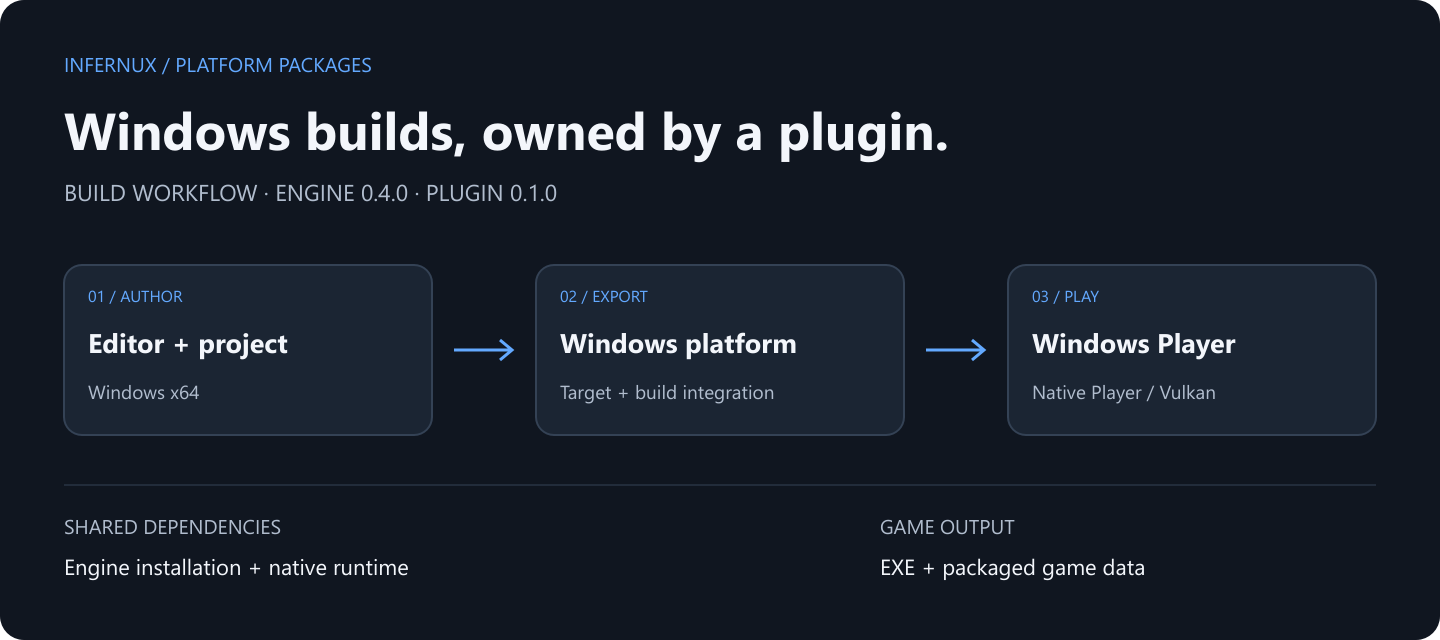
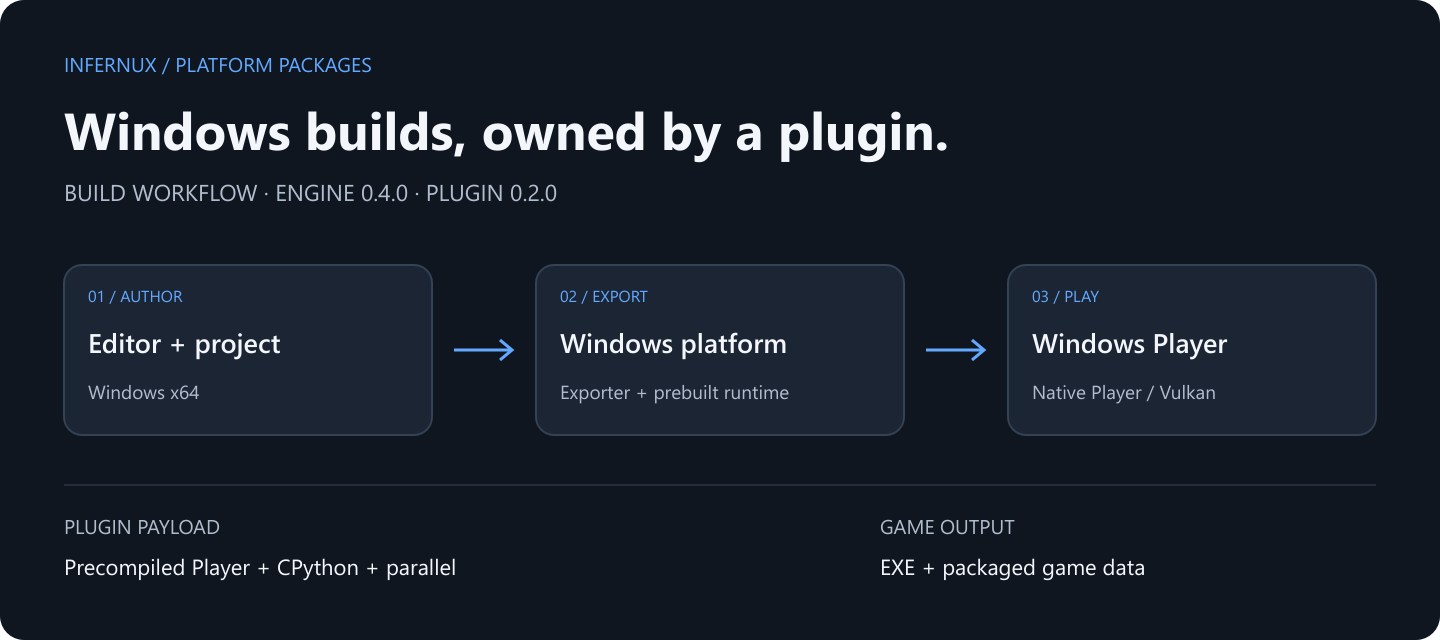
Ship CMake-owned precompiled Windows Player in platform package

diff --git a/release.py b/release.py
@@ -8,13 +8,43 @@ from pathlib import Path
 
 import package
 
+RUNTIME_ENGINE_VERSION = "0.4.0"
 
-def build_release(tag: str, output: Path | None = None) -> tuple[Path, Path]:
+
+def player_payload() -> tuple[Path, tuple[str, ...]]:
+    """Require the complete CMake-built payload before publishing a release."""
+    root = Path(__file__).resolve().parent
+    platform = json.loads((root / "package/inx_package.json").read_text(encoding="utf-8"))["reference"].rsplit("-", 1)[1]
+    payload = root / "package/editor" / f"infernux_{platform}" / "player"
+    document = json.loads((payload / "Player.inxmanifest").read_text(encoding="utf-8"))
+    expected = {
+        "engine_version": RUNTIME_ENGINE_VERSION,
+        "python_abi": "cp313",
+        "platform": "win32" if platform == "windows" else "linux",
+        "distribution": "platform-plugin",
+    }
+    if any(document.get(key) != value for key, value in expected.items()) or (
+        str(document.get("machine", "")).casefold() not in {"amd64", "x86_64"}
+    ):
+        raise ValueError("Player payload does not match the platform plugin's engine/ABI contract")
+    host = "InfernuxPlayerHost.exe" if platform == "windows" else "InfernuxPlayerHost"
+    for name, magic in (("Runtime.inxrt", b"INXPKG\0\0"), ("Parallel.inxmod", b"INXPKG\0\0"),
+                        (host, b"MZ" if platform == "windows" else b"\x7fELF")):
+        with (payload / name).open("rb") as source:
+            if source.read(len(magic)) != magic:
+                raise ValueError(f"Invalid precompiled Player payload: {name}")
+    return payload, ("Player.inxmanifest", "Runtime.inxrt", "Parallel.inxmod", host)
+
+
+def build_release(tag: str | None = None, output: Path | None = None) -> tuple[Path, Path]:
     root = Path(__file__).resolve().parent
     metadata = json.loads((root / "package/inx_package.json").read_text(encoding="utf-8"))
     expected = f"v{metadata['version']}"
+    if tag is None:
+        tag = expected
     if tag != expected:
         raise ValueError(f"Release tag must match package version: {expected}")
+    player_payload()
     destination = output if output is not None else root / "dist"
     destination.mkdir(parents=True, exist_ok=True)
     stem = metadata["reference"].replace("/", ".")
@@ -35,7 +65,7 @@ def build_release(tag: str, output: Path | None = None) -> tuple[Path, Path]:
 
 if __name__ == "__main__":
     parser = argparse.ArgumentParser(description=__doc__)
-    parser.add_argument("tag", help="v followed by package/inx_package.json version")
+    parser.add_argument("tag", nargs="?", help="v followed by package/inx_package.json version")
     arguments = parser.parse_args()
     for path in build_release(arguments.tag):
         print(path)

diff --git a/tests/test_release.py b/tests/test_release.py
@@ -4,11 +4,53 @@ import json
 from pathlib import Path
 import tempfile
 import unittest
+import shutil
+from unittest.mock import patch
 
 import release
 
 
 class ReleaseTests(unittest.TestCase):
+    def setUp(self):
+        self.workspace = tempfile.TemporaryDirectory()
+        self.addCleanup(self.workspace.cleanup)
+        self.root = Path(self.workspace.name) / "repository"
+        source = Path(__file__).resolve().parents[1]
+        shutil.copytree(source / "package", self.root / "package", ignore=shutil.ignore_patterns("player"))
+        self.payload = self.root / "package/editor/infernux_windows/player"
+        self.payload.mkdir()
+        (self.payload / "Player.inxmanifest").write_text(json.dumps({
+            "engine_version": release.RUNTIME_ENGINE_VERSION, "python_abi": "cp313",
+            "platform": "win32", "machine": "x86_64", "distribution": "platform-plugin",
+        }), encoding="utf-8")
+        for name in ("Runtime.inxrt", "Parallel.inxmod"):
+            (self.payload / name).write_bytes(b"INXPKG\0\0fixture")
+        (self.payload / "InfernuxPlayerHost.exe").write_bytes(b"MZfixture")
+        for module in (release, release.package):
+            override = patch.object(module, "__file__", str(self.root / Path(module.__file__).name))
+            override.start()
+            self.addCleanup(override.stop)
+
+    def test_release_rejects_exporter_only_package(self):
+        (self.payload / "Runtime.inxrt").unlink()
+        with self.assertRaises(FileNotFoundError):
+            release.build_release("v0.2.0")
+        self.assertFalse((self.root / "dist").exists())
+
+    def test_release_rejects_wrong_engine_payload(self):
+        manifest = self.payload / "Player.inxmanifest"
+        document = json.loads(manifest.read_text())
+        document["engine_version"] = "0.3.7"
+        manifest.write_text(json.dumps(document), encoding="utf-8")
+        with self.assertRaisesRegex(ValueError, "engine/ABI"):
+            release.build_release("v0.2.0")
+
+    def test_cmake_entry_produces_only_the_final_inxpackage_and_manifest(self):
+        artifact, manifest = release.build_release()
+        self.assertEqual(set((self.root / "dist").iterdir()), {artifact, manifest})
+        self.assertEqual(artifact.suffix, ".inxpkg")
+        self.assertFalse(list(self.root.rglob("*.zip")))
+
     def test_package_and_manifest(self):
         root = Path(__file__).resolve().parents[1]
         source = json.loads((root / "package/inx_package.json").read_text(encoding="utf-8"))

diff --git a/package/editor/infernux_windows/exporter.py b/package/editor/infernux_windows/exporter.py
@@ -3,6 +3,7 @@
 from __future__ import annotations
 
 import sys
+from pathlib import Path
 
 from Infernux.engine.build.contracts import BuildTarget, PlatformExporter
 from Infernux.engine.build.host_player_export import (
@@ -40,13 +41,16 @@ class WindowsPlatformExporter(PlatformExporter):
             request,
             windows_target(),
             exporter_id=self.exporter_id,
+            player_runtime_root=str(Path(__file__).parent / "player"),
         )
 
     def create_plan(self, request):
         return create_host_player_plan(request)
 
     def execute(self, request, plan):
-        return execute_host_player_build(request, plan)
+        return execute_host_player_build(
+            request, plan, player_runtime_root=str(Path(__file__).parent / "player"),
+        )
 
 
 __all__ = ["WindowsPlatformExporter", "windows_target"]

diff --git a/README.md b/README.md
@@ -4,15 +4,15 @@
 
 ![Windows build workflow](package/plugin_pages/media/overview.png)
 
-Build Windows x64 Players using the native runtime shipped with the Windows engine wheel. This package registers the Windows exporter; it does not contain a second copy of the engine or an entire compiler SDK.
+Build Windows x64 Players using the precompiled Player, CPython runtime and optional parallel module shipped in this plugin. Ordinary exports assemble these files with cooked project content; no engine checkout, CMake, or compiler SDK is required.
 
 ## At a glance
 
 | Item | Value |
 | --- | --- |
 | Package | `infernux/platform-windows` |
-| Plugin version | 0.1.0 |
-| Engine compatibility | >=0.4.0,<0.5 |
+| Plugin version | 0.2.0 |
+| Engine compatibility | ==0.4.0 |
 | Target | `windows-x64` |
 | Build host | Windows x64 |
 | Rendering | Native Player / Vulkan |
@@ -27,7 +27,7 @@ If your editor's bundled catalog predates this repository, add `https://github.c
 
 ## Requirements
 
-A Windows x64 installation of Infernux 0.4.0 with its native Player and Python 3.13 runtime pack. The resulting Player uses Vulkan.
+Infernux 0.4.0 for Windows x64 with Python 3.13. This plugin owns the matching precompiled Player payload. The resulting Player uses Vulkan.
 
 ## Host boundary
 
@@ -37,7 +37,7 @@ This is a native-host exporter: Windows builds Windows. Installing this package 
 
 Export a game directory containing its executable, runtime dependencies and packaged game data. Keep the complete output together when distributing it. Project content is cooked into the engine's binary package, not published as the editable Assets/Library tree. Packaging is not DRM.
 
-If the target is absent, check that the package is enabled and the editor is Windows x64. If the build reports missing native Player or Python runtime files, repair the engine installation; reinstalling this small plugin cannot replace those files.
+If the target is absent, check that the package is enabled and the editor is Windows x64. If the build reports missing or incompatible Player files, explicitly install a compatible complete platform release through the plugin's Versions tab.
 
 ## Develop and package
 
@@ -56,7 +56,9 @@ README.zh-CN.md
 
 Run `python package.py dist/infernux.platform-windows.inxpkg` to package locally. This standalone script uses only Python's standard library and does not require an engine installation. Build outside package/, then place the files to ship inside package/ before packaging.
 
-Maintainers run `python release.py v0.1.0` to create the archive and its release manifest. Pushing a matching version tag publishes both files through GitHub Actions. The editor uses that manifest to select a compatible release.
+Maintainers build the engine's `windows-msvc-player` CMake preset. It produces the payload directly in this repository's `package/editor/infernux_windows/player/` and the final `.inxpkg` plus release manifest in `dist/`. Release CI builds this exact plugin revision with the matching engine release line on a Windows host. There is no intermediate runtime ZIP or separate archive-transfer channel.
+
+Maintainers run `python release.py v0.2.0` to create the archive and its release manifest. Pushing a matching version tag publishes both files through GitHub Actions. The editor uses that manifest to select a compatible release.
 
 ## License
 

diff --git a/package/plugin_pages/usage.md b/package/plugin_pages/usage.md
@@ -2,11 +2,11 @@
 
 ![Build workflow](media/overview.png)
 
-Build Windows x64 Players using the native runtime shipped with the Windows engine wheel. This package registers the Windows exporter; it does not contain a second copy of the engine or an entire compiler SDK.
+Build Windows x64 Players using the precompiled Player, CPython runtime and optional parallel module shipped in this plugin. Ordinary exports assemble these files with cooked project content; no engine checkout, CMake, or compiler SDK is required.
 
 ## Before building
 
-A Windows x64 installation of Infernux 0.4.0 with its native Player and Python 3.13 runtime pack. The resulting Player uses Vulkan.
+Infernux 0.4.0 for Windows x64 with Python 3.13. This plugin owns the matching precompiled Player payload. The resulting Player uses Vulkan.
 
 ## Host boundary
 
@@ -16,4 +16,4 @@ This is a native-host exporter: Windows builds Windows. Installing this package 
 
 Export a game directory containing its executable, runtime dependencies and packaged game data. Keep the complete output together when distributing it. Project content is cooked into the engine's binary package, not published as the editable Assets/Library tree. Packaging is not DRM.
 
-If the target is absent, check that the package is enabled and the editor is Windows x64. If the build reports missing native Player or Python runtime files, repair the engine installation; reinstalling this small plugin cannot replace those files.
+If the target is absent, check that the package is enabled and the editor is Windows x64. If the build reports missing or incompatible Player files, explicitly install a compatible complete platform release through the plugin's Versions tab.

diff --git a/RELEASE_NOTES.md b/RELEASE_NOTES.md
@@ -1,13 +1,15 @@
-# Infernux Windows Platform 0.1.0
+# Infernux Windows Platform 0.2.0
 
-Official platform package for Infernux >=0.4.0,<0.5.
+Official platform package for Infernux ==0.4.0.
 
+- Ships the CMake-precompiled native Player, CPython runtime and optional parallel module in the plugin.
+- Removes source checkout, CMake and engine compilation from ordinary game export.
 - Registers windows-x64 and its platform build integration.
 - Includes English and Simplified Chinese documentation with a build workflow illustration.
 - Ships an installable InxPackage and the engine's compatible-release manifest.
 
 ## Requirements
 
-A Windows x64 installation of Infernux 0.4.0 with its native Player and Python 3.13 runtime pack. The resulting Player uses Vulkan.
+Infernux 0.4.0 for Windows x64 with Python 3.13. This plugin owns the matching precompiled Player payload. The resulting Player uses Vulkan.
 
 Download the .inxpkg asset to install the plugin. The automatic source archives are for plugin development. See the README for setup, output and troubleshooting details.
